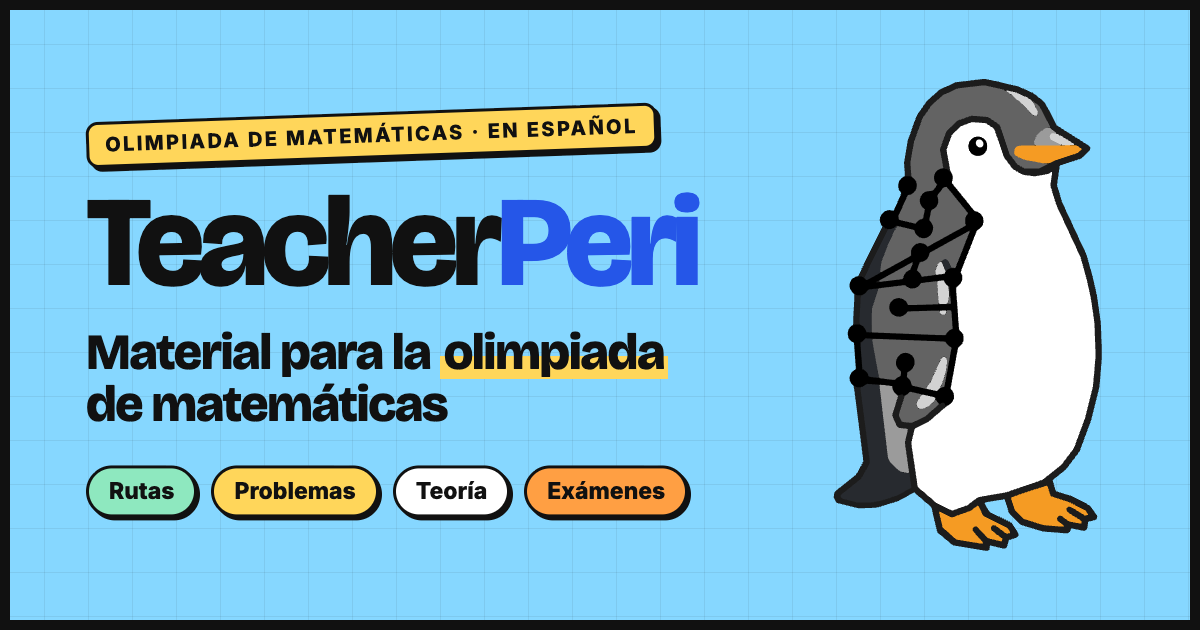
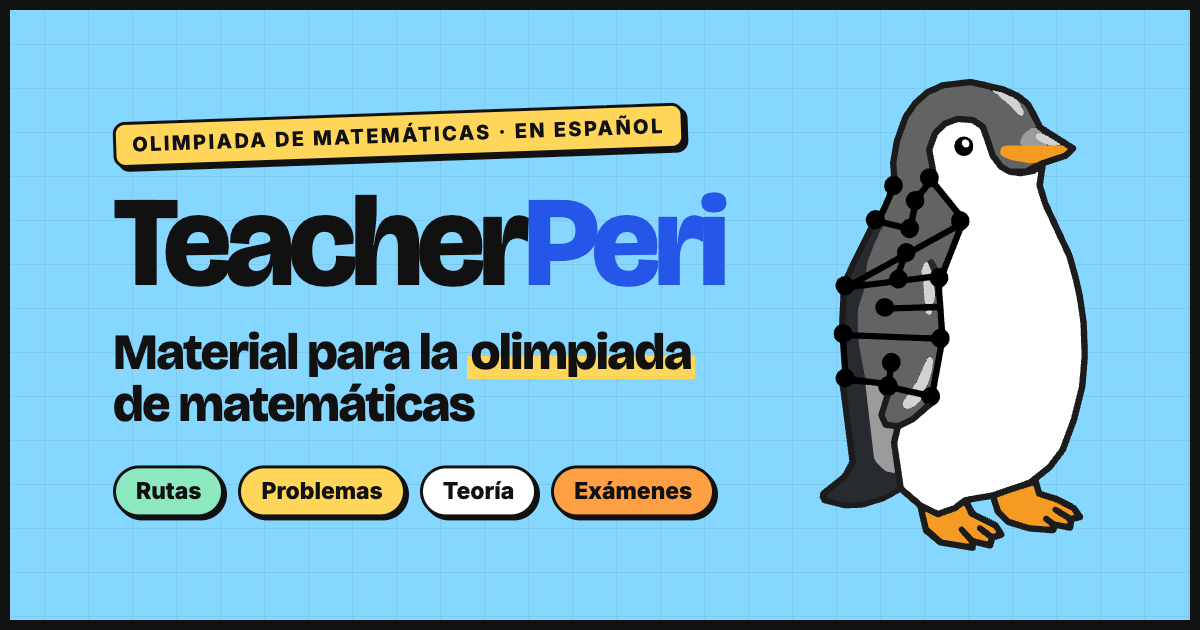
Even out the spacing in the link preview image
The gap between the text and the penguin was 144 px while the right
margin was 90 px, so the penguin looked pushed to the edge. The left
margin, the middle gap and the right margin are now about 103 px each.
The image URL version goes to v=3 so WhatsApp fetches the new one.

diff --git a/index.html b/index.html
@@ -23,7 +23,7 @@
     <meta property="og:locale" content="es_MX" />
     <meta property="og:title" content="TeacherPeri | Material para la olimpiada de matemáticas" />
     <meta property="og:description" content="Rutas de entrenamiento, problemas, teoría y exámenes para prepararte para la olimpiada de matemáticas, en español y desde cualquier nivel." />
-    <meta property="og:image" content="https://teacherperi.vercel.app/og-image.png?v=2" />
+    <meta property="og:image" content="https://teacherperi.vercel.app/og-image.png?v=3" />
     <meta property="og:image:width" content="1200" />
     <meta property="og:image:height" content="630" />
     <meta property="og:image:alt" content="TeacherPeri, material para la olimpiada de matemáticas: Rutas, Problemas, Teoría y Exámenes, con el pingüino de TeacherPeri." />
